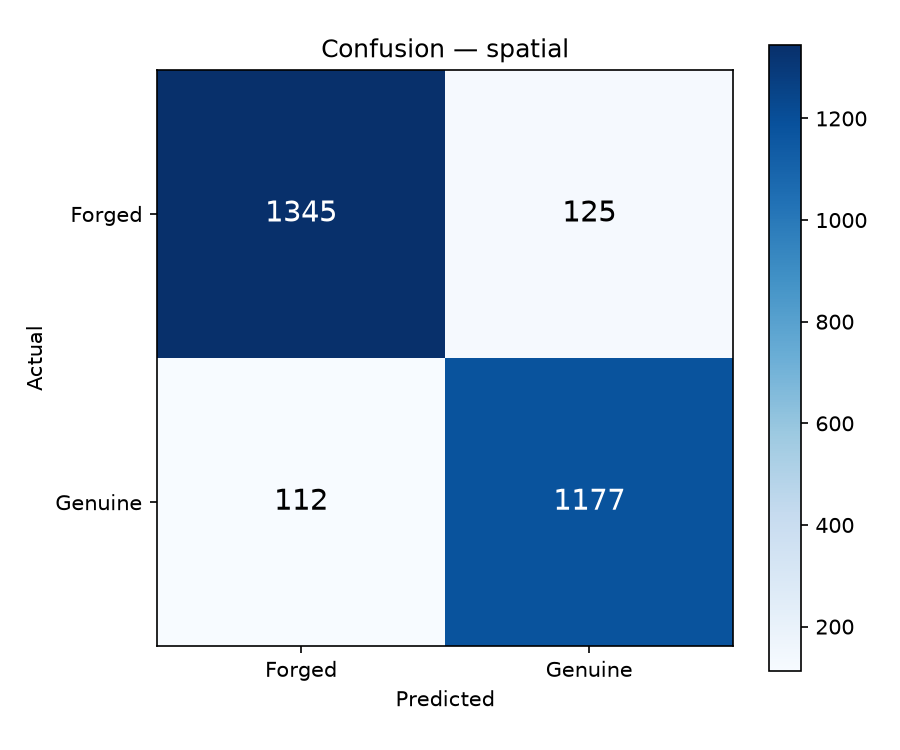
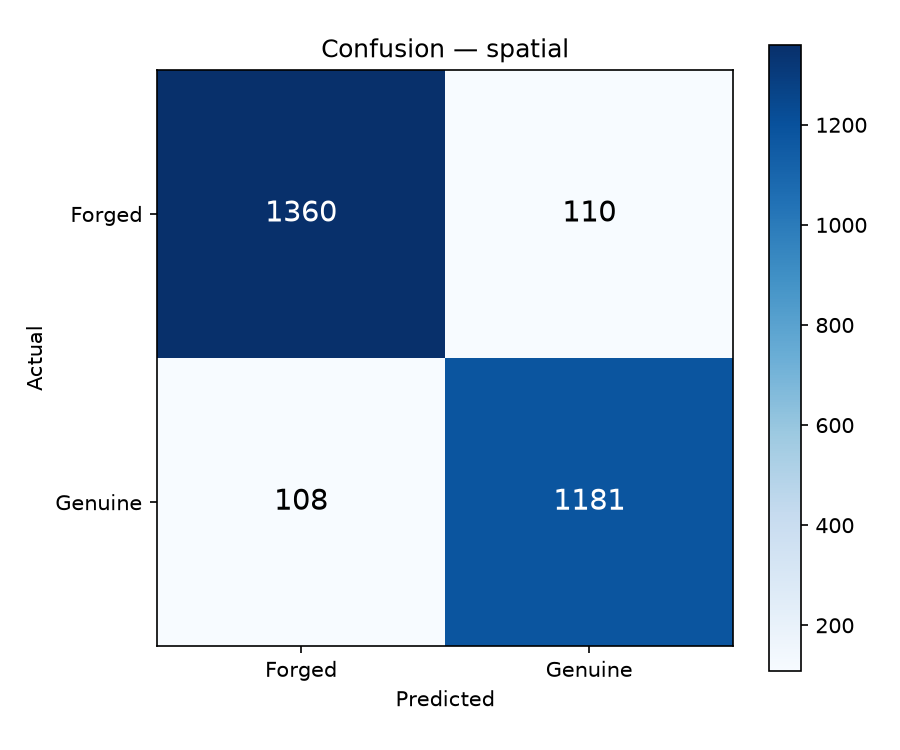
feat: adopt new spatial weights with improved 7.46% pooled EER
- Retrain and adopt new spatial model checkpoint (spatial_cnn.pth) with stroke jitter disabled (SPATIAL_AUG_STROKE_PROB = 0.0)
- Improve pooled spatial EER from 8.72% to 7.46% ± 0.46% (-1.23 points), improving across all corpora (Hindi: 3.47%, Bengali: 6.82%, UTSig: 26.34%, CEDAR: 0.00%)
- Recalibrate SPATIAL_DECISION_THRESHOLD to 0.7637 (FAR: 7.48%, FRR: 8.38%)
- Update README results tables, confusion matrix, and secondary tier metrics
- Document full-recipe runs in SUMMARY.md Part 9 §32 (1024-d screen rejection) and §33 (stroke jitter ablation & adoption)
- Update AGENTS.md spatial augmentation directive and refresh spatial ROC/DET/confusion curves

diff --git a/config/settings.py b/config/settings.py
@@ -202,7 +202,7 @@ SPATIAL_AUG_MAX_ROTATION_DEG = 6.0
 SPATIAL_AUG_MAX_SHEAR = 0.08
 SPATIAL_AUG_MAX_SCALE = 0.08
 SPATIAL_AUG_MAX_TRANSLATE = 0.04
-SPATIAL_AUG_STROKE_PROB = 0.3
+SPATIAL_AUG_STROKE_PROB = 0.0           # Measured 2026-09-26: stroke dilate/erode jitter costs 1.23 pooled EER points (report L9)
 TEMPORAL_AUG_MAX_ROTATION_DEG = 6.0
 TEMPORAL_AUG_JITTER = 0.02
 TEMPORAL_AUG_MAX_SPEED_CHANGE = 0.15
@@ -243,7 +243,7 @@ ALPHA_GRID_STEP = 0.05
 # Decision threshold settings (S_final >= tau -> Genuine, else Forged).
 # Calibrated on validation set under enrollment protocol (K=5) at EER balance point (FAR = FRR).
 # See AGENTS.md and SUMMARY.md.
-SPATIAL_DECISION_THRESHOLD = 0.7731     # Calibrated spatial branch threshold (EER on validation)
+SPATIAL_DECISION_THRESHOLD = 0.7637     # Calibrated spatial branch threshold (EER on validation)
 TEMPORAL_DECISION_THRESHOLD = 0.7900    # Calibrated temporal branch threshold (EER on validation)
 # Fused tau: EER point of 0.5*s + 0.5*t on the 24 paired writers held out by
 # both branches (10 SigComp2011 + 14 SigComp2009/NFI), K=5, 10 draws, measured

diff --git a/README.md b/README.md
@@ -210,9 +210,9 @@ Verification evaluates a probe against an enrolled gallery using nearest-referen
 | References per user ($K$) | **5**                                                                | `NUM_ENROLLMENT_REFERENCES = 5`                             |
 | Matching Rule             | Nearest Reference: $d_{min} = \min_{i} \|e_{probe} - e_{ref, i}\|_2$ | `_nearest_reference_score`                                  |
 | Similarity Score          | $S = \frac{1}{1 + d_{min}}$                                          | —                                                           |
-| Decision Threshold        | Spatial $\tau = 0.7731$, Temporal $\tau = 0.7900$                    | `SPATIAL_DECISION_THRESHOLD`, `TEMPORAL_DECISION_THRESHOLD` |
+| Decision Threshold        | Spatial $\tau = 0.7637$, Temporal $\tau = 0.7900$                    | `SPATIAL_DECISION_THRESHOLD`, `TEMPORAL_DECISION_THRESHOLD` |
 
-Increasing enrolled references improves accuracy without retraining, with diminishing returns. Swept on the shipped weights (`benchmark.py --enroll K`, K = 1 to 15, 10 draws each): spatial pooled EER 11.71% at $K=1$, 8.72% at $K=5$, 7.86% at $K=10$, 7.82% at $K=15$; temporal 13.72%, 7.81%, 6.99%, 6.31%. Both curves are flat past $K \approx 10$ (Hindi 4.65%, SigComp2011 Dutch 3.53% at $K=10$). $K=5$ ships; see SUMMARY.md for why.
+Increasing enrolled references improves accuracy without retraining, with diminishing returns. Swept with `benchmark.py --enroll K`, K = 1 to 15, 10 draws each, on the spatial weight shipped before 2026-09-26 and the current temporal one: spatial pooled EER 11.71% at $K=1$, 8.72% at $K=5$, 7.86% at $K=10$, 7.82% at $K=15$; temporal 13.72%, 7.81%, 6.99%, 6.31%. Both curves are flat past $K \approx 10$ (Hindi 4.65%, SigComp2011 Dutch 3.53% at $K=10$). $K=5$ ships; see SUMMARY.md for why.
 
 ---
 
@@ -291,12 +291,12 @@ The table below benchmarks this project against published state-of-the-art resul
 | ----------------------- | :-----------------: | -------------------------------------------------------- | :----: | :--------------------------: |
 | **CEDAR**               |    **0.00%** EER    | Writer-Independent Siamese CNN (50 train / 5 test)       |  [1]   |    **0.00% $\pm$ 0.00%**     |
 | **CEDAR**               |      4.63% EER      | Writer-Dependent SVM on CNN features ($K=12$)            |  [2]   |    **0.00% $\pm$ 0.00%**     |
-| **BHSig260 Bengali**    |   **13.89%** EER    | Writer-Independent Siamese CNN (50 train / 50 test)      |  [1]   |    **8.17% $\pm$ 1.07%**     |
-| **BHSig260 Hindi**      |     15.36% EER      | Writer-Independent Siamese CNN (100 train / 60 test)     |  [1]   |    **5.33% $\pm$ 0.50%**     |
-| **UTSig (Persian)**     |    **9.80%** EER    | Writer-Dependent SVM, Persian transfer learning ($K=10$) |  [3]   |      28.10% $\pm$ 3.21%      |
-| **UTSig (Persian)**     |     11.16% EER      | Writer-Dependent SVM, Persian transfer learning ($K=5$)  |  [3]   |      28.10% $\pm$ 3.21%      |
-| **UTSig (Persian)**     |     17.45% EER      | Writer-Dependent DMML on HOG features ($K=12$)           |  [4]   |      28.10% $\pm$ 3.21%      |
-| **UTSig (Persian)**     |     29.71% EER      | Writer-Dependent SVM on geometric features ($K=12$)      |  [5]   |      28.10% $\pm$ 3.21%      |
+| **BHSig260 Bengali**    |   **13.89%** EER    | Writer-Independent Siamese CNN (50 train / 50 test)      |  [1]   |    **6.82% $\pm$ 1.10%**     |
+| **BHSig260 Hindi**      |     15.36% EER      | Writer-Independent Siamese CNN (100 train / 60 test)     |  [1]   |    **3.47% $\pm$ 0.90%**     |
+| **UTSig (Persian)**     |    **9.80%** EER    | Writer-Dependent SVM, Persian transfer learning ($K=10$) |  [3]   |      26.34% $\pm$ 2.17%      |
+| **UTSig (Persian)**     |     11.16% EER      | Writer-Dependent SVM, Persian transfer learning ($K=5$)  |  [3]   |      26.34% $\pm$ 2.17%      |
+| **UTSig (Persian)**     |     17.45% EER      | Writer-Dependent DMML on HOG features ($K=12$)           |  [4]   |      26.34% $\pm$ 2.17%      |
+| **UTSig (Persian)**     |     29.71% EER      | Writer-Dependent SVM on geometric features ($K=12$)      |  [5]   |      26.34% $\pm$ 2.17%      |
 | **SVC2004 Task 2**      |    **2.89%** EER    | Competition winner, user-specific thresholds ($K=5$)     |  [6]   |      13.58% $\pm$ 2.21%      |
 | **SVC2004 Task 2**      |     77.00% Acc      | Writer-Independent Siamese CNN (35 train / 5 test)       |  [7]   |      13.58% $\pm$ 2.21%      |
 | **SigComp2011 Dutch**   |    _Competition_    | Multi-system reference benchmark                         |  [8]   |    **4.11% $\pm$ 1.03%**     |
@@ -308,7 +308,7 @@ $\dagger$ _Note: MOBISIG figures reflect a separate touchscreen evaluation model
 
 #### Analysis of Protocol Differences & Accuracy Gaps
 
-- **UTSig Protocol Gap:** Published results achieving 9–17% EER on UTSig rely on **writer-dependent** training (training per-user classifiers with $K=10$ to $12$ references). In our strictly writer-independent, few-shot enrollment setup, Persian signatures exhibit complex stroke loops that yield 28.10% EER.
+- **UTSig Protocol Gap:** Published results achieving 9–17% EER on UTSig rely on **writer-dependent** training (training per-user classifiers with $K=10$ to $12$ references). In our strictly writer-independent, few-shot enrollment setup, Persian signatures exhibit complex stroke loops that yield 26.34% EER.
 - **SVC2004 Intrinsic Hardness:** Published SVC2004 benchmarks below 3% utilize _a posteriori_ user-specific thresholds. Under a global threshold, SVC2004 is intrinsically challenging: DTW alignment confirms an intra-genuine distance ratio of 1.44 (vs 1.61 for Dutch) and a median forgery separation $z$-score of 1.37 (vs 2.23 for Dutch).
 - **SigComp2011 Target Tier:** On true pen digitizers (SigComp2011 Dutch), our temporal model achieves **4.11% EER**, satisfying the $\le 5\%$ target for pen-tablet hardware.
 - **Fusion is not unconditionally better.** Late fusion helps when the two branches are of comparable strength, and *hurts* when one pulls ahead. Measured on writers neither branch trained on: fusion improves the single temporal model (3.96% → 3.62% in §15; 4.41% → 3.50% on the second paired corpus, SigComp2009 / NFI, §25) and degrades the six-seed ensemble (2.61% → 4.63%, losing 22 of 25 draws). For the pen-tablet tier the ensemble is served **unimodally**; fusion is used where the spatial branch is competitive. See `SUMMARY.md` Part 9 §15.
@@ -336,7 +336,7 @@ Device support is architected in tiers based on hardware capability:
 | Tier          | Hardware Target          | Primary Dataset Proxy | Modality & Script       |  Target EER  |     Measured EER      |
 | ------------- | ------------------------ | --------------------- | ----------------------- | :----------: | :-------------------: |
 | **Primary**   | XPPen Deco 640 Tablet    | SigComp2011 / NFI, paired | Fused (scan + pen), tablet-only fallback | $\le 5.0\%$  | **3.50% $\pm$ 0.70%** fused; 4.11% $\pm$ 1.03% pen alone |
-| **Secondary** | Document Scanners / Cams | CEDAR / BHSig260      | Offline Scanned Image   | $\le 10.0\%$ | **8.72% $\pm$ 0.42%** |
+| **Secondary** | Document Scanners / Cams | CEDAR / BHSig260      | Offline Scanned Image   | $\le 10.0\%$ | **7.46% $\pm$ 0.46%** |
 | **Tertiary**  | Mobile / Touchscreen     | MOBISIG               | Capacitive Finger Touch | $\le 20.0\%$ |        21.26%         |
 
 ---
@@ -347,11 +347,11 @@ Shipped weights evaluated on open corpora using `scripts/benchmark.py --enroll 5
 
 | Branch       | Dataset             | Writers |   Mean $\pm$ SD EER   | Pooled EER | Cohen's d |
 | ------------ | ------------------- | :-----: | :-------------------: | :--------: | :-------: |
-| **Spatial**  | **All Combined**    | **65**  | **8.72% $\pm$ 0.42%** | **8.55%**  | **1.970** |
-| Spatial      | CEDAR               |    8    |   0.00% $\pm$ 0.00%   |   0.00%    |   6.674   |
-| Spatial      | BHSig260 Hindi      |   23    |   5.33% $\pm$ 0.50%   |   5.43%    |   2.313   |
-| Spatial      | BHSig260 Bengali    |   16    |   8.17% $\pm$ 1.07%   |   8.65%    |   2.139   |
-| Spatial      | UTSig               |   18    |  28.10% $\pm$ 3.21%   |   28.75%   |   0.947   |
+| **Spatial**  | **All Combined**    | **65**  | **7.46% $\pm$ 0.46%** | **7.72%**  | **2.195** |
+| Spatial      | CEDAR               |    8    |   0.00% $\pm$ 0.00%   |   0.00%    |   8.941   |
+| Spatial      | BHSig260 Hindi      |   23    |   3.47% $\pm$ 0.90%   |   3.34%    |   2.575   |
+| Spatial      | BHSig260 Bengali    |   16    |   6.82% $\pm$ 1.10%   |   6.89%    |   2.185   |
+| Spatial      | UTSig               |   18    |  26.34% $\pm$ 2.17%   |   27.65%   |   1.277   |
 | **Temporal** | **All Combined**    | **31**  | **7.77% $\pm$ 0.67%** | **7.67%**  | **1.710** |
 | Temporal     | SigComp2011 Dutch   |   15    |   4.11% $\pm$ 1.03%   |   4.18%    |   2.450   |
 | Temporal     | SigComp2011 Chinese |    6    |   5.28% $\pm$ 0.85%   |   5.23%    |   1.782   |
@@ -365,7 +365,7 @@ Shipped weights evaluated on open corpora using `scripts/benchmark.py --enroll 5
 
 ### Operating Point & Confusion Matrices
 
-Confusion matrices evaluated at fixed production thresholds (`SPATIAL_DECISION_THRESHOLD = 0.7731`, `TEMPORAL_DECISION_THRESHOLD = 0.7900`):
+Confusion matrices evaluated at fixed production thresholds (`SPATIAL_DECISION_THRESHOLD = 0.7637`, `TEMPORAL_DECISION_THRESHOLD = 0.7900`):
 
 > The notebook is committed **without stored cell outputs**. They were 88% of a
 > 843 KB file and made every re-run an unreadable diff. The figures it produces
@@ -378,7 +378,7 @@ Confusion matrices evaluated at fixed production thresholds (`SPATIAL_DECISION_T
 
 | Modality     | True Reject | False Accept | True Accept | False Reject |    FAR     |    FRR     |
 | ------------ | ----------: | -----------: | ----------: | -----------: | :--------: | :--------: |
-| **Spatial**  |       1,345 |          125 |       1,177 |          112 | **8.50%**  | **8.69%**  |
+| **Spatial**  |       1,360 |          110 |       1,181 |          108 | **7.48%**  | **8.38%**  |
 | **Temporal** |         564 |           63 |         540 |           32 | **10.05%** | **5.59%**  |
 
 _Error Complementarity:_ Spatial and temporal modalities exhibit complementary error distributions ($\phi < 0$). Spatial models tend toward false rejections (rejecting genuine variations), while temporal models tend toward false acceptances. Multimodal late fusion effectively balances both operating regimes.

diff --git a/AGENTS.md b/AGENTS.md
@@ -106,11 +106,17 @@ them, even if they appear in the literature review or older drafts:
   config points at whatever is being trained _now_, and scoring an archived
   checkpoint under the wrong architecture yields a plausible number that means
   nothing.
-- **Training-time augmentation is on** (`SPATIAL_AUGMENT`). Measured 2026-07-30:
-  every prior spatial run best-validated at **epoch 1**, which was image variety,
-  not pair supply — 301 writers seen pixel-identical every epoch. Small affine
-  warps plus stroke-width jitter moved the best epoch to 6 and pooled EER 11.78%
-  → 11.19%. Keep the ranges small; forgery detection keys on fine stroke geometry.
+- **Training-time augmentation is on, but the affine warps only**
+  (`SPATIAL_AUGMENT = True`, `SPATIAL_AUG_STROKE_PROB = 0.0`). Measured
+  2026-07-30: every prior spatial run best-validated at **epoch 1**, which was
+  image variety, not pair supply — 301 writers seen pixel-identical every epoch.
+  Warps plus stroke-width jitter moved the best epoch to 6 and pooled EER 11.78%
+  → 11.19%. That bundle was measured as one switch and hid a component pulling
+  the other way: measured 2026-09-26 at the full recipe, turning the stroke
+  dilate/erode jitter **off** takes pooled EER 8.69% → **7.46%** with no corpus
+  worse, because forgery detection keys on fine stroke geometry and that warp is
+  the one that erases stroke width. Keep the affine ranges small, keep the jitter
+  at zero, and never judge a group of augmentations by its sum again.
   Warp each side of a pair **independently**, or the distance between them is
   unchanged and the metric learns nothing.
 - **LR schedule: an option, not the shipped recipe.** `--lr-schedule plateau`
